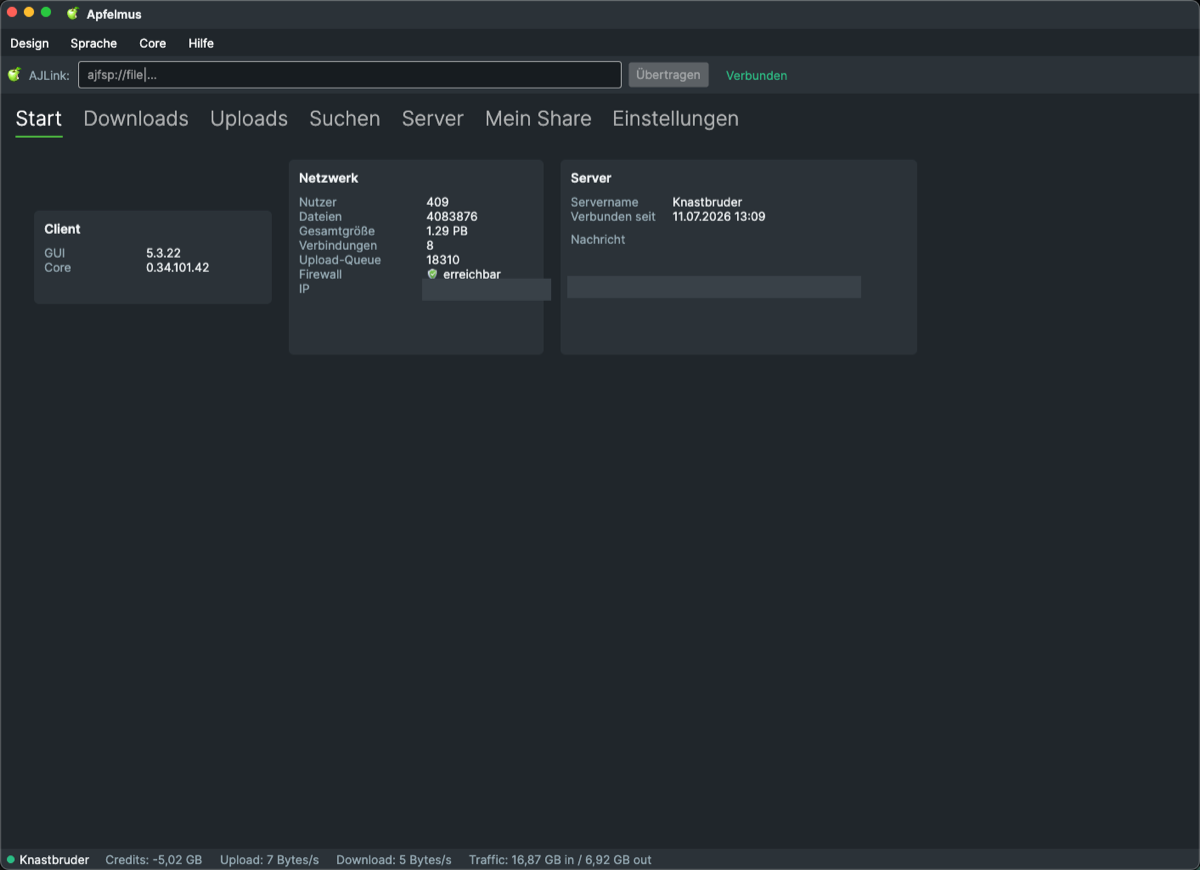
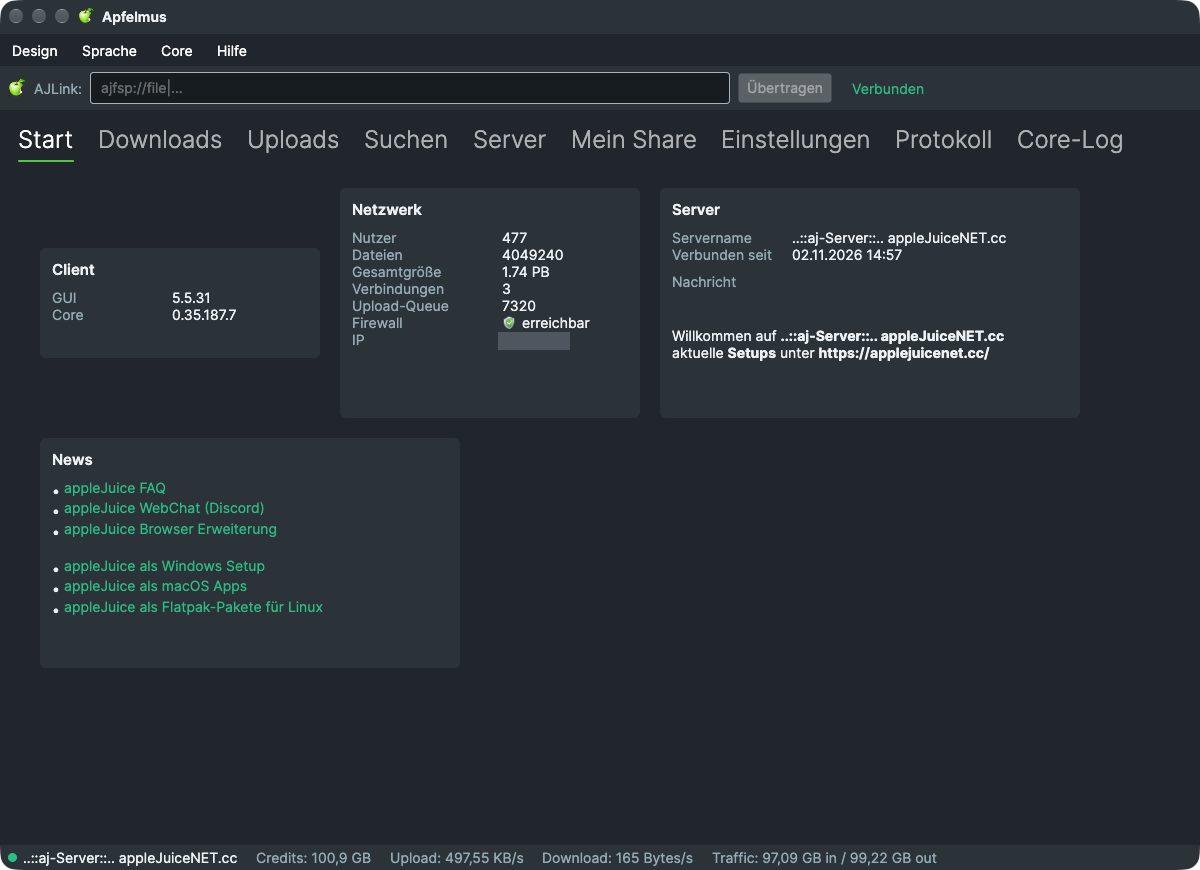
5.5.31: Core-Log-Dienst für Windows und macOS, gespeichertes Design beim Start, neue Screenshots
- ajcore-logd: Datei-Modus (-file) neben dem systemd-Journal; läuft auf Windows,
  macOS und Linux (jeweils x64 und ARM64). Anleitungen für Windows (geplante
  Aufgabe, Firewall), macOS (LaunchAgent) und Linux; build.sh baut alle Ziele,
  release.sh hängt die Binaries ans Release.
- Das gespeicherte Design (Dunkel/Hell) wird jetzt beim Start angewendet
  (bisher startete Apfelmus immer dunkel).
- Screenshots in docs/ mit der aktuellen Version (IP verdeckt).

diff --git a/ajcore-logd/tail.go b/ajcore-logd/tail.go
@@ -1,0 +1,139 @@
+package main
+
+import (
+	"bytes"
+	"log"
+	"os"
+	"time"
+	"unicode/utf8"
+)
+
+// toUTF8 liefert gueltiges UTF-8. Unter Windows schreiben Java-Programme das Log oft in der
+// Systemcodepage; ungueltige Bytes werden dann wie Latin-1/CP1252 gelesen statt verworfen.
+func toUTF8(b []byte) string {
+	if utf8.Valid(b) {
+		return string(b)
+	}
+	r := make([]rune, len(b))
+	for i, c := range b {
+		r[i] = rune(c)
+	}
+	return string(r)
+}
+
+// tailFile verfolgt eine Logdatei wie "tail -F": liest beim Start den Rueckstand (die letzten
+// Zeilen), danach nur noch Neues. Wird die Datei abgeschnitten (Core mit ">" neu gestartet) oder
+// ausgetauscht (Rotation), beginnt es wieder am Anfang. Laeuft auf allen Systemen (Windows, macOS, Linux).
+func tailFile(path string, backlog int, dropNoise bool, ring *Ring) {
+	const chunk = 64 * 1024
+	const maxLine = 64 * 1024
+	var (
+		f       *os.File
+		off     int64
+		partial []byte
+		first   = true
+		warned  bool
+	)
+	emit := func(raw []byte, t time.Time) {
+		raw = bytes.TrimRight(raw, "\r")
+		if text, ok := clean(toUTF8(raw), dropNoise); ok {
+			ring.Add(t, text)
+		}
+	}
+	// feed zerlegt neue Bytes in Zeilen; ein unvollstaendiges Ende bleibt fuer den naechsten Durchlauf liegen.
+	feed := func(data []byte, t time.Time) {
+		data = append(partial, data...)
+		partial = nil
+		for {
+			i := bytes.IndexByte(data, '\n')
+			if i < 0 {
+				break
+			}
+			emit(data[:i], t)
+			data = data[i+1:]
+		}
+		if len(data) > maxLine { // Zeile ohne Ende: nicht endlos puffern
+			emit(data, t)
+			data = nil
+		}
+		partial = append([]byte(nil), data...)
+	}
+
+	for {
+		if f == nil {
+			nf, err := os.Open(path)
+			if err != nil {
+				if !warned {
+					log.Printf("Logdatei nicht lesbar (%v), versuche es weiter", err)
+					warned = true
+				}
+				time.Sleep(2 * time.Second)
+				continue
+			}
+			warned = false
+			f = nf
+			partial = nil
+			off = 0
+			if first {
+				// Rueckstand: die letzten ~256 KB lesen, davon die letzten backlog*4 Zeilen behalten
+				// (der Ticker wird verworfen, daher mehr einlesen).
+				if st, err := f.Stat(); err == nil {
+					start := st.Size() - 256*1024
+					if start < 0 {
+						start = 0
+					}
+					buf := make([]byte, st.Size()-start)
+					n, _ := f.ReadAt(buf, start)
+					buf = buf[:n]
+					if start > 0 { // erste (angeschnittene) Zeile verwerfen
+						if i := bytes.IndexByte(buf, '\n'); i >= 0 {
+							buf = buf[i+1:]
+						}
+					}
+					lines := bytes.Split(buf, []byte("\n"))
+					if len(lines) > 0 && len(lines[len(lines)-1]) > 0 { // unvollstaendiges Ende
+						partial = append([]byte(nil), lines[len(lines)-1]...)
+					}
+					if len(lines) > 0 {
+						lines = lines[:len(lines)-1]
+					}
+					if keep := backlog * 4; len(lines) > keep {
+						lines = lines[len(lines)-keep:]
+					}
+					for _, l := range lines {
+						emit(l, st.ModTime())
+					}
+					off = start + int64(n)
+				}
+			}
+			first = false
+		}
+
+		st, err := f.Stat()
+		if err != nil {
+			f.Close()
+			f = nil
+			continue
+		}
+		if st.Size() < off { // abgeschnitten
+			off = 0
+			partial = nil
+		}
+		for st.Size() > off {
+			buf := make([]byte, chunk)
+			n, _ := f.ReadAt(buf, off)
+			if n <= 0 {
+				break
+			}
+			off += int64(n)
+			feed(buf[:n], time.Now())
+		}
+		// Rotation: unter dem Pfad liegt jetzt eine andere Datei -> die alte war schon leergelesen.
+		if cur, err := os.Stat(path); err == nil && !os.SameFile(st, cur) {
+			f.Close()
+			f = nil
+			continue
+		}
+		time.Sleep(500 * time.Millisecond)
+	}
+}

diff --git a/ajcore-logd/main.go b/ajcore-logd/main.go
@@ -1,4 +1,4 @@
-// ajcore-logd: liest das Log des appleJuice-Cores aus dem systemd-Journal und
+// ajcore-logd: liest das Log des appleJuice-Cores (systemd-Journal oder Logdatei) und
 // stellt die letzten Zeilen per HTTP (Bearer-Token) bereit. Nur Standardbibliothek.
 package main
 
@@ -13,6 +13,7 @@ import (
 	"os"
 	"os/exec"
 	"regexp"
+	"runtime"
 	"strconv"
 	"strings"
 	"sync"
@@ -154,7 +155,8 @@ func follow(unit string, backlog int, dropNoise bool, ring *Ring) {
 func main() {
 	listen := flag.String("listen", "127.0.0.1:9852", "Adresse:Port")
 	tokenFile := flag.String("token-file", "", "Datei mit dem Bearer-Token (Pflicht)")
-	unit := flag.String("unit", "ajcore", "systemd-Dienst des Cores")
+	file := flag.String("file", "", "Logdatei des Cores verfolgen (Windows/macOS/Linux); Pflicht ausserhalb von Linux")
+	unit := flag.String("unit", "ajcore", "systemd-Dienst des Cores (Linux, wenn -file nicht gesetzt ist)")
 	size := flag.Int("buffer", 2000, "Zeilen im Ringpuffer")
 	allow := flag.String("allow", "10.1.0.0/16", "erlaubtes Netz (CIDR); Anfragen von anderswo werden abgewiesen")
 	keepNoise := flag.Bool("keep-noise", false, "Statusticker und check-Zeilen nicht verwerfen")
@@ -178,7 +180,15 @@ func main() {
 	}
 
 	ring := &Ring{max: *size, started: time.Now()}
-	go follow(*unit, *size, !*keepNoise, ring)
+	switch {
+	case *file != "":
+		go tailFile(*file, *size, !*keepNoise, ring)
+		log.Printf("liest Logdatei %s", *file)
+	case runtime.GOOS == "linux":
+		go follow(*unit, *size, !*keepNoise, ring)
+	default:
+		log.Fatal("auf diesem System gibt es kein systemd-Journal: bitte -file <Logdatei des Cores> angeben")
+	}
 
 	mux := http.NewServeMux()
 	mux.HandleFunc("/healthz", func(w http.ResponseWriter, r *http.Request) { w.Write([]byte("ok\n")) })
@@ -208,6 +218,6 @@ func main() {
 	})
 	srv := &http.Server{Addr: *listen, Handler: mux, ReadHeaderTimeout: 5 * time.Second,
 		WriteTimeout: 10 * time.Second}
-	log.Printf("ajcore-logd lauscht auf %s (Einheit %s)", *listen, *unit)
+	log.Printf("ajcore-logd lauscht auf %s", *listen)
 	log.Fatal(srv.ListenAndServe())
 }

diff --git a/Apfelmus.Avalonia/ViewModels/MainWindowViewModel.cs b/Apfelmus.Avalonia/ViewModels/MainWindowViewModel.cs
@@ -34,6 +34,10 @@ namespace Apfelmus.Avalonia.ViewModels
         {
             _config = config;
             _client = new CoreClient(config);
+            // Gespeichertes Design beim Start anwenden (App.axaml startet fest mit Dunkel).
+            if (Application.Current != null)
+                Application.Current.RequestedThemeVariant =
+                    string.Equals(config.Theme, ThemeNames.Light, StringComparison.OrdinalIgnoreCase) ? ThemeVariant.Light : ThemeVariant.Dark;
             _registerProtocol = config.ProtocolHandler;
 
             Downloads = new ObservableCollection<Download>();

diff --git a/ajcore-logd/README.md b/ajcore-logd/README.md
@@ -1,50 +1,119 @@
 # ajcore-logd
 
-Kleiner Begleitdienst für den appleJuice-Core: liest dessen Log aus dem systemd-Journal und stellt die
-letzten Zeilen per HTTP bereit. Apfelmus zeigt sie im Tab **Core-Log** an. Nur Go-Standardbibliothek,
-keine weiteren Abhängigkeiten.
+Kleiner Begleitdienst für den appleJuice-Core: liest dessen Log und stellt die letzten Zeilen per HTTP
+bereit. Apfelmus zeigt sie im Tab **Core-Log** an. Läuft auf **Linux, macOS und Windows** (jeweils x64
+und ARM64), nur Go-Standardbibliothek, keine weiteren Abhängigkeiten.
 
-**Voraussetzungen:** Linux mit systemd, der Core läuft als systemd-Dienst und loggt auf stdout (also
-ins Journal; prüfen mit `journalctl -u <Einheit> -n 20`), Go ab 1.21 zum Bauen.
+Der Dienst läuft auf dem **Rechner, auf dem der Core läuft**, und kann das Log auf zwei Arten lesen:
 
-## Einrichtung
+| Quelle | Wann | Option |
+|---|---|---|
+| **Logdatei** | Windows, macOS, Linux (auch Docker/Unraid mit eingebundener Datei) | `-file <Pfad>` |
+| **systemd-Journal** | Linux, Core läuft als systemd-Dienst und loggt auf stdout | `-unit <Einheit>` (Standard `ajcore`) |
 
-Alles auf dem **Core-Rechner**, als root. `ajcore` steht hier für den Namen deiner Core-Einheit
-(`systemctl list-units | grep -i aj`), `192.168.1.10` für die LAN-Adresse des Rechners und
-`192.168.0.0/16` für das Netz, aus dem Apfelmus zugreifen darf – bitte anpassen.
+## 1. Programm besorgen
+
+Fertige Programme hängen am [Release](../../../releases/latest): `ajcore-logd-linux-amd64`,
+`-linux-arm64`, `-darwin-amd64` (Intel-Mac), `-darwin-arm64` (Apple Silicon), `-windows-amd64.exe`,
+`-windows-arm64.exe`. Oder selbst bauen (Go ab 1.21): `./build.sh` erzeugt alle in `dist/`.
+
+## 2. Token erzeugen
+
+Ein geheimes Token (mindestens 16 Zeichen) in einer Datei, die nur der Dienst lesen darf. Es wird gleich
+in Apfelmus eingetragen.
 
 ```bash
-# 1. Bauen und installieren
-cd ajcore-logd
-go build -o ajcore-logd .
-install -m 755 ajcore-logd /usr/local/bin/
+# Linux/macOS
+(umask 077; head -c 32 /dev/urandom | base64 | tr -d '=+/\n' > ~/.ajcore-logd.token)
+```
+```powershell
+# Windows (PowerShell)
+$b = New-Object byte[] 32; [Security.Cryptography.RandomNumberGenerator]::Create().GetBytes($b)
+([Convert]::ToBase64String($b) -replace '[=+/]','') | Set-Content -NoNewline C:\ajcore-logd\token.txt
+icacls C:\ajcore-logd\token.txt /inheritance:r /grant:r "SYSTEM:R" "Administrators:F"
+```
 
-# 2. Token erzeugen (nur root lesbar). Es wird gleich in Apfelmus eingetragen.
-(umask 077; head -c 32 /dev/urandom | base64 | tr -d '=+/\n' > /etc/ajcore-logd.token)
+## 3. Dienst einrichten
 
-# 3. Unit installieren und anpassen
-install -m 644 ajcore-logd.service /etc/systemd/system/
-$EDITOR /etc/systemd/system/ajcore-logd.service
+In den Beispielen ist `192.168.1.10` die LAN-Adresse des Core-Rechners und `192.168.0.0/16` das Netz,
+aus dem Apfelmus zugreifen darf. Beides bitte anpassen.
+
+### Windows
+
+Der Core schreibt sein Log auf stdout. Damit der Dienst es lesen kann, den Core mit Umleitung in eine
+Datei starten, z. B. in einer `start-core.bat`:
+
+```bat
+cd /d C:\appleJuice
+java -Xmx4096m -Djava.library.path=core\. -jar core\ajcore.jar >> core.log 2>&1
+```
+
+(`core.log` wächst dabei ständig; gelegentlich leeren oder den Core neu starten. Wird die Datei
+abgeschnitten oder ersetzt, liest der Dienst von vorn weiter.) Dienst als geplante Aufgabe beim Start,
+in einer **Administrator-Eingabeaufforderung**:
+
+```bat
+schtasks /Create /TN ajcore-logd /SC ONSTART /RU SYSTEM /RL HIGHEST /F ^
+  /TR "\"C:\ajcore-logd\ajcore-logd-windows-amd64.exe\" -listen 192.168.1.10:9852 -allow 192.168.0.0/16 -file C:\appleJuice\core.log -token-file C:\ajcore-logd\token.txt"
+schtasks /Run /TN ajcore-logd
+```
+
+Windows-Firewall: Port nur für das eigene Netz öffnen (PowerShell, Administrator):
+
+```powershell
+New-NetFirewallRule -DisplayName ajcore-logd -Direction Inbound -Protocol TCP -LocalPort 9852 `
+  -RemoteAddress 192.168.0.0/16 -Action Allow
+```
+
+Beim ersten Start warnt SmartScreen vor dem nicht signierten Programm („Weitere Informationen →
+Trotzdem ausführen“). ARM-Rechner (Snapdragon/Surface) nehmen die `arm64`-Datei.
+
+### macOS
+
+Der Core muss in eine Datei loggen, z. B. mit `java -jar core/ajcore.jar >> core.log 2>&1` oder, wenn
+er per launchd läuft, mit `StandardOutPath`/`StandardErrorPath` im Plist. Programm installieren, vom
+Download-Schutz befreien und als LaunchAgent starten:
+
+```bash
+sudo install -m 755 ajcore-logd-darwin-arm64 /usr/local/bin/ajcore-logd     # Intel: -darwin-amd64
+sudo xattr -d com.apple.quarantine /usr/local/bin/ajcore-logd 2>/dev/null
+cp macos/ajcore-logd.plist ~/Library/LaunchAgents/local.ajcore-logd.plist
+$EDITOR ~/Library/LaunchAgents/local.ajcore-logd.plist     # Adresse, Netz, Pfade (DEINNAME) anpassen
+launchctl load ~/Library/LaunchAgents/local.ajcore-logd.plist
+```
+
+Die macOS-Firewall bleibt dafür aus oder erlaubt `ajcore-logd`; die Netzfreigabe übernimmt `-allow`.
+
+### Linux mit systemd (Journal)
+
+Funktioniert ohne Logdatei, solange der Core als systemd-Dienst läuft. `ajcore` steht für den Namen
+der Core-Einheit (`systemctl list-units | grep -i aj`).
+
+```bash
+sudo install -m 755 ajcore-logd-linux-amd64 /usr/local/bin/ajcore-logd       # ARM: -linux-arm64
+(umask 077; head -c 32 /dev/urandom | base64 | tr -d '=+/\n' | sudo tee /etc/ajcore-logd.token >/dev/null)
+sudo install -m 644 ajcore-logd.service /etc/systemd/system/
+sudo $EDITOR /etc/systemd/system/ajcore-logd.service
 #   ExecStart:        -listen 192.168.1.10:9852   -allow 192.168.0.0/16   -unit ajcore
 #   IPAddressAllow=   192.168.0.0/16   (dasselbe Netz wie bei -allow)
 #   After=            Name der Core-Einheit
-
-# 4. Starten
-systemctl daemon-reload
-systemctl enable --now ajcore-logd
+sudo systemctl daemon-reload && sudo systemctl enable --now ajcore-logd
 ```
 
-Prüfen (vom Rechner mit Apfelmus aus):
+Mit Logdatei statt Journal (z. B. Core in Docker): in der Unit `-unit ajcore` durch `-file /pfad/core.log`
+ersetzen und der Unit Leserecht auf die Datei geben (`ReadOnlyPaths=`, bei `ProtectHome=yes` liegt
+die Datei am besten außerhalb von `/home`).
+
+## 4. Prüfen und in Apfelmus eintragen
 
 ```bash
-curl -i http://192.168.1.10:9852/log                                   # -> 401 (ohne Token)
-curl -s -H "Authorization: Bearer $(ssh root@192.168.1.10 cat /etc/ajcore-logd.token)" \
-     "http://192.168.1.10:9852/log?limit=3"                            # -> JSON mit Zeilen
+curl -i http://192.168.1.10:9852/log                                  # -> 401 (ohne Token)
+curl -s -H "Authorization: Bearer <token>" "http://192.168.1.10:9852/log?limit=3"   # -> JSON mit Zeilen
 ```
 
-Dann in Apfelmus unter *Einstellungen → GUI* **Core-Log-Dienst (URL)** `http://192.168.1.10:9852` und
-**Core-Log-Dienst (Token)** (Inhalt von `/etc/ajcore-logd.token`) eintragen und *GUI speichern*.
-Beim Kopieren aus dem Terminal kein Leerzeichen und kein `%` (zsh-Markierung) mitnehmen.
+In Apfelmus unter *Einstellungen → GUI* **Core-Log-Dienst (URL)** `http://192.168.1.10:9852` und
+**Core-Log-Dienst (Token)** eintragen, *GUI speichern*. Beim Kopieren aus dem Terminal kein Leerzeichen
+und kein `%` (zsh-Markierung) mitnehmen.
 
 ## Optionen
 
@@ -52,8 +121,9 @@ Beim Kopieren aus dem Terminal kein Leerzeichen und kein `%` (zsh-Markierung) mi
 |---|---|---|
 | `-listen` | `127.0.0.1:9852` | Adresse:Port, auf dem der Dienst lauscht |
 | `-allow` | `10.1.0.0/16` | erlaubtes Netz (CIDR); Anfragen von anderswo bekommen 403 |
-| `-token-file` | – (Pflicht) | Datei mit dem Token (mindestens 16 Zeichen); in der Unit per `%d/token` |
-| `-unit` | `ajcore` | systemd-Einheit des Cores |
+| `-token-file` | – (Pflicht) | Datei mit dem Token (mindestens 16 Zeichen) |
+| `-file` | – | Logdatei des Cores verfolgen; **Pflicht außerhalb von Linux** |
+| `-unit` | `ajcore` | systemd-Einheit des Cores (Linux, wenn `-file` fehlt) |
 | `-buffer` | `2000` | Zeilen im Ringpuffer |
 | `-keep-noise` | aus | Statusticker und `check`-Zeilen nicht verwerfen |
 
@@ -63,14 +133,15 @@ Beim Kopieren aus dem Terminal kein Leerzeichen und kein `%` (zsh-Markierung) mi
 `{"epoch":…,"next":<id>,"entries":[{"id","time","text"}]}`. Ändert sich `epoch`, wurde der Dienst neu
 gestartet und der Client beginnt bei `since=0`. `GET /healthz` antwortet ohne Token mit `ok`.
 
-Gefiltert wird: die Core-Uhrzeit (das Journal hat eine eigene), der 10-Sekunden-Statusticker
-(`…kb - 0 - 8`) und die `check /pfad`-Zeilen vom Start; `password=…` o. ä. wird maskiert.
+Gefiltert wird: die Core-Uhrzeit (Journal/Zeitpunkt des Lesens liefern einen eigenen), der
+10-Sekunden-Statusticker (`…kb - 0 - 8`) und die `check /pfad`-Zeilen vom Start; `password=…` o. ä. wird
+maskiert. Logdateien in der Systemcodepage (Windows) werden als Latin-1 gelesen, Umlaute bleiben erhalten.
 
 ## Absicherung
 
 - Token Pflicht, zeitkonstanter Vergleich.
-- Nur Anfragen aus `-allow` – zusätzlich `IPAddressDeny=any`/`IPAddressAllow=` in der Unit
-  (Absicherung auf Dienstebene, falls keine Firewall läuft).
-- Läuft als `DynamicUser` mit Leserecht aufs Journal (`SupplementaryGroups=systemd-journal`), gehärtet
-  (`ProtectSystem=strict`, `NoNewPrivileges` …); das Token wird per `LoadCredential` übergeben.
+- Nur Anfragen aus `-allow`; unter Linux zusätzlich `IPAddressDeny/Allow` in der Unit, unter Windows eine
+  Firewall-Regel mit `-RemoteAddress`.
+- Linux: läuft als `DynamicUser` mit Leserecht aufs Journal, gehärtet (`ProtectSystem=strict`,
+  `NoNewPrivileges` …), Token per `LoadCredential`.
 - Unverschlüsselt (HTTP): nur in einem vertrauenswürdigen Netz betreiben, sonst TLS-Proxy davor.

diff --git a/README.md b/README.md
@@ -107,9 +107,9 @@ Geklickte `ajfsp://`-Links (z. B. `ajfsp://file|Name|Hash|Größe/`) werden an d
 
 ## Core-Log einrichten
 
-Die Schnittstelle des appleJuice-Cores liefert kein Log. Wer es in Apfelmus sehen möchte, startet auf dem **Core-Rechner** den Begleitdienst [`ajcore-logd`](ajcore-logd/) (Go, nur Standardbibliothek; Linux mit systemd, der Core läuft als systemd-Dienst und loggt auf stdout ins Journal). Er stellt die letzten Zeilen per HTTP bereit; Apfelmus holt sie alle 5 Sekunden ab.
+Die Schnittstelle des appleJuice-Cores liefert kein Log. Wer es in Apfelmus sehen möchte, startet auf dem **Core-Rechner** den Begleitdienst [`ajcore-logd`](ajcore-logd/) (Go, keine Abhängigkeiten; **Windows, macOS und Linux**, jeweils x64 und ARM64, fertige Programme im [Release](../../releases/latest)). Er liest das Log aus einer Logdatei des Cores (alle Systeme) oder unter Linux aus dem systemd-Journal und stellt die letzten Zeilen per HTTP bereit; Apfelmus holt sie alle 5 Sekunden ab.
 
-1. **Dienst installieren** – Schritt für Schritt in [`ajcore-logd/README.md`](ajcore-logd/README.md): bauen, Token erzeugen, systemd-Unit anpassen (Adresse, erlaubtes Netz, Name der Core-Einheit) und starten.
+1. **Dienst installieren** – Schritt für Schritt in [`ajcore-logd/README.md`](ajcore-logd/README.md), je Betriebssystem: Token erzeugen, Dienst starten (Windows: geplante Aufgabe + Firewall-Regel, macOS: LaunchAgent, Linux: systemd), Adresse und erlaubtes Netz anpassen.
 2. **In Apfelmus eintragen** – *Einstellungen → GUI*: **Core-Log-Dienst (URL)**, z. B. `http://192.168.1.10:9852`, und **Core-Log-Dienst (Token)**, dann *GUI speichern*. Das Token ohne Leerzeichen und ohne Zeilenende-Zeichen einfügen (zsh zeigt am Ende ein `%`, das nicht dazugehört).
 3. Der Tab **Core-Log** füllt sich nach wenigen Sekunden. Im Tab **Protokoll** steht, ob der Dienst erreichbar ist oder das Token abgelehnt wurde. Ohne Eintrag bleibt der Tab leer, alles andere verhält sich wie bisher.
 
